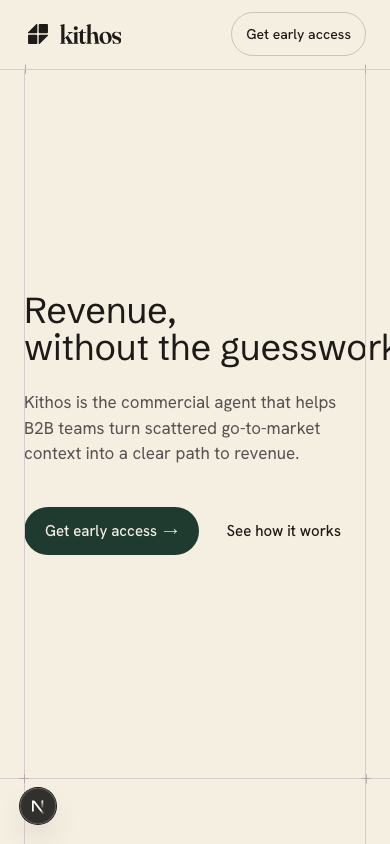
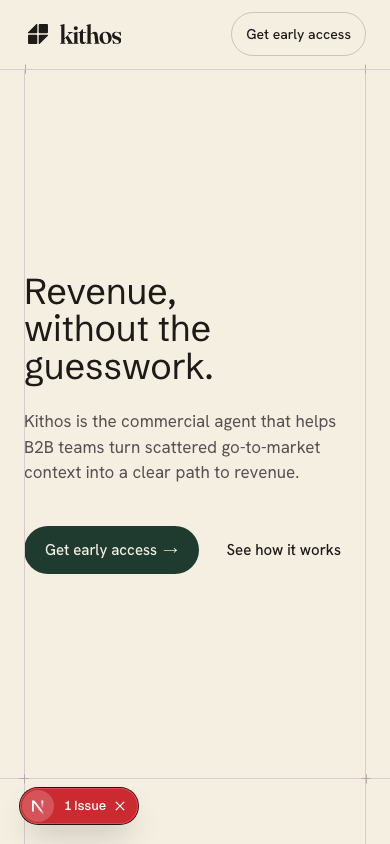
fix(v2-hero): padding correctness — rail alignment, mobile overflow
Three issues from the previous commit, fixed here:

1. Padding was on the <section>, not inside the 86rem container.
   Result: hero copy started flush at the site rail while every
   other section's copy starts 40px in. Eye catches the offset.
   Moved px-6/md:px-10 inside max-w-[86rem], matching MotionStatement
   and ClosingBand. Same x as the rest of the page now.

2. Dropped the redundant py-24/md:py-28/lg:py-32 — flex justify-center
   + min-h-[var(--hero-min-h)] already centres vertically. Two
   centring mechanisms were fighting; the section is cleaner with one.

3. whitespace-nowrap on each headline span carried over from the old
   forest-card hero, where the card width hid the issue. In the flat
   layout the second span ("without the guesswork.") at the clamp's
   mobile floor (36px) is ~400px wide vs ~342px mobile content area
   = horizontal scroll. Block spans keep the intended two-line break
   on md+; the second line can wrap on narrow widths.

Visual baselines refreshed for the above-the-fold captures at all
three breakpoints. 25/25 tests green.

Changed region(s): [[0.0615, 0.3081, 1.0, 0.6777], [0.0308, 0.9242, 0.3692, 0.9858], [0.5846, 0.6161, 0.8615, 0.6777]]

diff --git a/src/app/v2/page.tsx b/src/app/v2/page.tsx
@@ -49,18 +49,24 @@ function Hero() {
   return (
     <section
       aria-labelledby="hero-headline"
-      className="relative flex min-h-[var(--hero-min-h)] w-full flex-col justify-center bg-[var(--bg)] px-6 py-24 md:px-10 md:py-28 lg:py-32"
+      className="relative w-full bg-[var(--bg)]"
     >
-      <div className="mx-auto w-full max-w-[86rem]">
+      {/* Padding sits INSIDE the 86rem container — matches MotionStatement
+          and ClosingBand so the hero copy starts on the same x as every
+          other section's copy (40px in from the site rails). flex-center
+          + min-h give the fold-filling presence. */}
+      <div className="mx-auto flex min-h-[var(--hero-min-h)] w-full max-w-[86rem] flex-col justify-center px-6 md:px-10">
         <div className="max-w-[54rem]">
           <h1
             id="hero-headline"
             className="rise rise-2 v2-display text-[var(--ink)]"
           >
-            <span className="block whitespace-nowrap">Revenue,</span>
-            <span className="block whitespace-nowrap">
-              without the guesswork.
-            </span>
+            {/* No whitespace-nowrap: at the clamp's mobile floor the
+                second line is wider than the viewport's content column.
+                Block spans keep the intended two-line break on md+; the
+                second line is allowed to wrap on the narrowest widths. */}
+            <span className="block">Revenue,</span>
+            <span className="block">without the guesswork.</span>
           </h1>
           <p className="rise rise-3 lead mt-6 max-w-[46ch] text-[var(--ink-soft)]">
             Kithos is the commercial agent that helps B2B teams turn